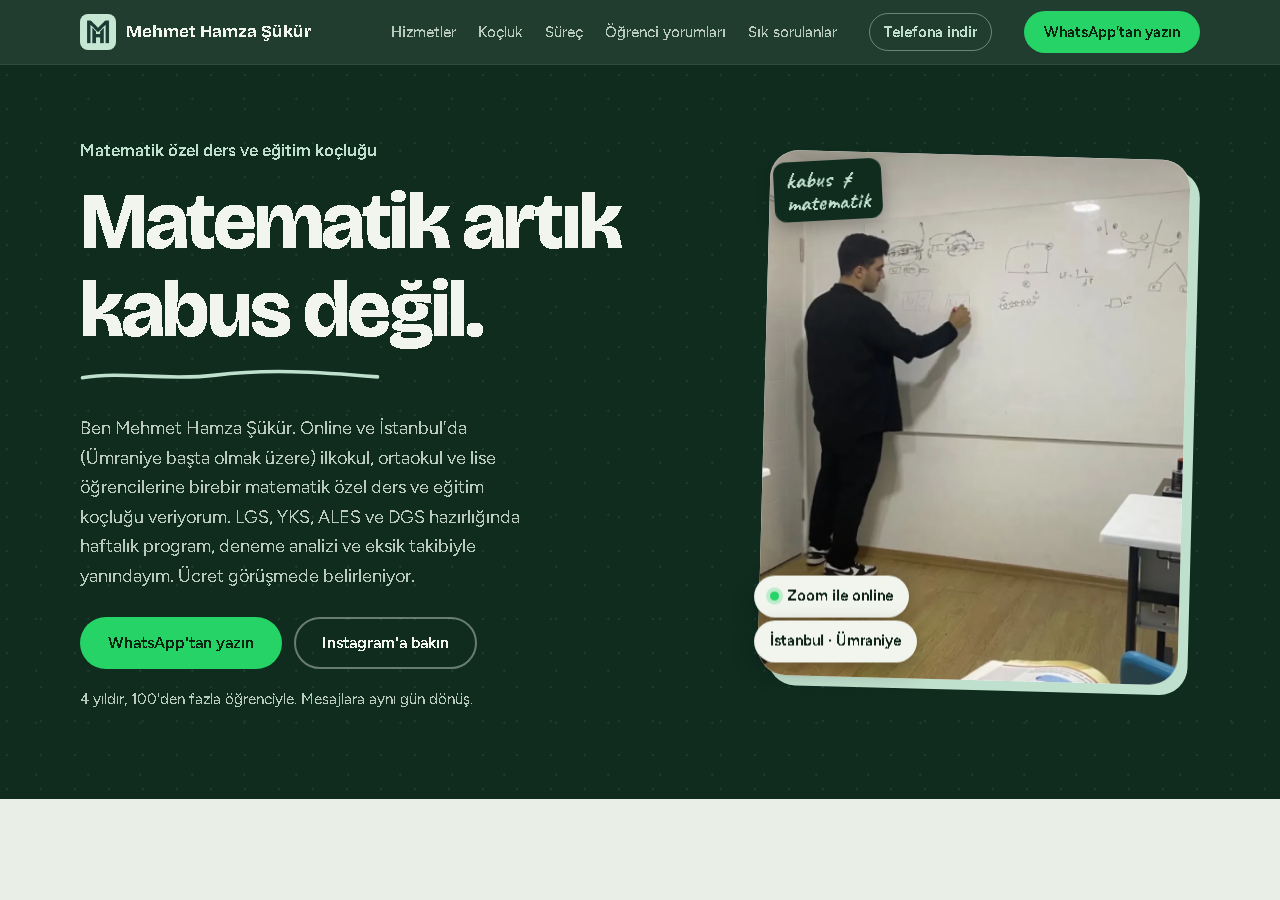
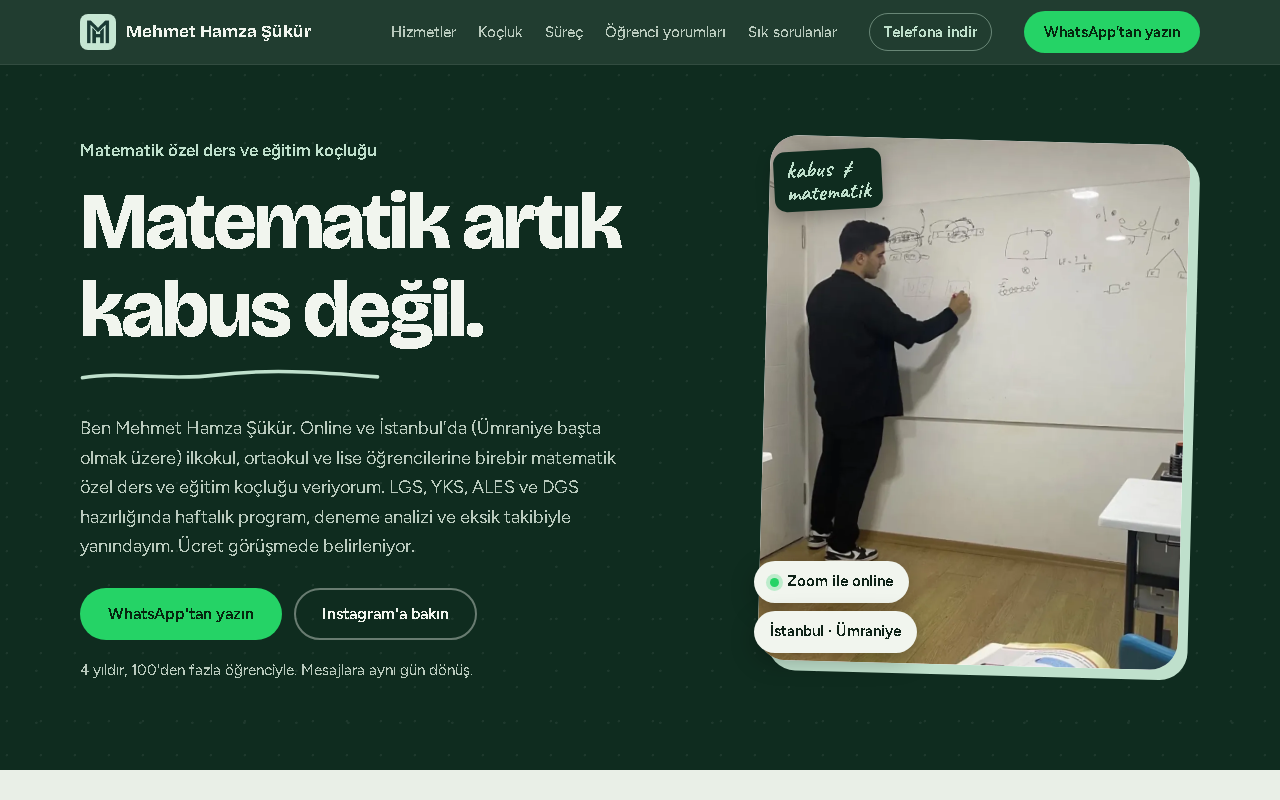
Ekran goruntulerini yeni haliyle guncelle, telefon gorunumu ekle

diff --git a/README.md b/README.md
@@ -6,6 +6,8 @@ Bu depo, sitenin **vitrinidir**. Siteyi nasıl tasarladığımı ve neler içerd
 
 ![Ana sayfa](ekran-goruntuleri/ana-sayfa-masaustu.png)
 
+<img src="ekran-goruntuleri/ana-sayfa-telefon.png" alt="Telefon görünümü" width="280">
+
 ## Site nedir?
 
 İlkokul, ortaokul ve lise öğrencilerine birebir matematik özel ders ve eğitim koçluğu veren **Mehmet Hamza Şükür** için hazırladığım tek sayfalık tanıtım sitesi. Online (Zoom) ve İstanbul Ümraniye'de yüz yüze ders sunuyor. Ziyaretçiyi doğrudan WhatsApp'tan iletişime geçirmek hedefleniyor.
@@ -13,7 +15,7 @@ Bu depo, sitenin **vitrinidir**. Siteyi nasıl tasarladığımı ve neler içerd
 ## Öne çıkanlar
 
 - **Hızlı:** Telefonda Lighthouse ölçümü (Ekim 2026): Performans 97, Erişilebilirlik 100, En İyi Uygulamalar 100, SEO 100.
-- **Önce telefon:** Çoğu ziyaretçi telefondan geldiği için tasarım küçük ekrandan başlıyor. Altta yapışan "WhatsApp'tan yazın" çubuğu var.
+- **Önce telefon:** Çoğu ziyaretçi telefondan geldiği için tasarım küçük ekrandan başlıyor. Telefonda altta yapışan bir "WhatsApp'tan yazın" çubuğu var.
 - **Telefona indirilebilir (PWA):** Tarayıcıdan uygulama gibi eklenebilir, çevrimdışı da açılır.
 - **Erişilebilir:** Klavye ile gezinme, görünür odak çizgisi, okunur renk kontrastı, hareketi azaltma ayarına saygı.
 - **Güvenli:** İçerik güvenlik politikası (CSP) ve diğer güvenlik başlıkları.
